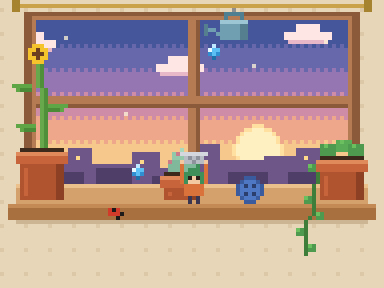
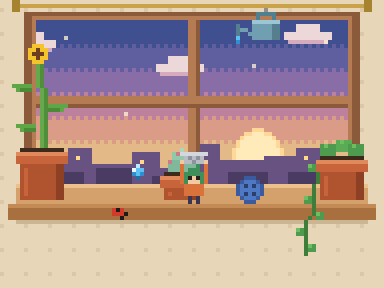
Thimbleful: golden drops, earn-back, streak meter, bigger sunflower, dusk sky
Board 2 (not yet live) gets the scoring changes along with the wider catch:
- Golden drops: after 8 catches about 1 in 9 drops is gold, falls faster and is
  worth 3; the spout glints gold first; missing one costs nothing
- Earn-back: 15 catches in a row wins back a lost spill, at most once a minute;
  a blue spill resets the streak, a missed gold drop does not

No scoring change:
- Streak count on the wall under her from 5 in a row, with a bar filling toward
  the next chance back while there is one to win
- Sunflower keeps growing past 26: side blooms at 35 and 65, the butterfly
  lands on it at 45, bees at 90
- The sky slowly turns from sunset to night over a run: the sun sinks, windows
  light up, stars and the moon come out
- Start card mentions gold drops and earn-back; regained chance pip bounces

Claude-Session: https://claude.ai/code/session_01LYFj8Wnu6iP9TftHkn7E9a

Changed region(s): [[0.5312, 0.0312, 0.75, 0.2188], [0.5938, 0.4062, 0.75, 0.5625], [0.2812, 0.7188, 0.3438, 0.7812]]

diff --git a/site/thimbleful/game.js b/site/thimbleful/game.js
@@ -25,6 +25,15 @@ const plant = { planted: false, size: 0 }; // the sunflower grown in the big pot
 let facing = 1, hop = 0, wander = { next: 3, to: null };
 const keys = { l: false, r: false }, can = { x: CAN_AWAY, tx: 60, want: CAN_AWAY };
 let drops = [], parts = [], wet = [], intro = null, seedFall = null;
+// golden drops: worth GOLD_POINTS, fall faster, and missing one costs nothing (it just sparkles away)
+const GOLD_POINTS = 3, GOLD_AFTER = 8, GOLD_CHANCE = 0.11;
+let nextGold = false, popups = [];
+// earn-back: EARN_STREAK catches in a row without a spill wins a lost chance back, at most once per EARN_COOLDOWN seconds
+const EARN_STREAK = 15, EARN_COOLDOWN = 60;
+let streak = 0, lastEarn = -999, regained = -1;
+// dusk: the sky slowly turns to night over a run (0 = sunset, 1 = night)
+const DUSK_SECONDS = 150;
+let dusk = 0, duskTarget = 0;
 
 const sky = [[5, '#46569a'], [12, '#6767ab'], [18, '#9676b2'], [24, '#cf8ca6'], [30, '#eea78b'], [36, '#f7c88c']];
 const far = [[9, 8, 6], [17, 6, 9], [23, 10, 5], [33, 7, 8], [40, 9, 4], [49, 6, 10], [55, 11, 6], [66, 8, 7], [74, 6, 9], [80, 7, 5]];
@@ -139,7 +148,8 @@ function drawLeaderboard(scores, highlight = null, all = false) {
 // ---------- UI ----------
 function hud() {
   scoreEl.textContent = score; bestEl.textContent = best; pips.innerHTML = '';
-  for (let i = 0; i < MAXSPILL; i++) { const p = document.createElement('i'); if (i < spills) p.className = 'gone'; pips.appendChild(p); }
+  for (let i = 0; i < MAXSPILL; i++) { const p = document.createElement('i'); if (i < spills) p.className = 'gone'; else if (i === regained) p.className = 'back'; pips.appendChild(p); }
+  regained = -1;
 }
 function showCard(title, text, goLabel) {
   ovTitle.textContent = title; ovText.textContent = text; go.textContent = goLabel; syncIntroBtn();
@@ -150,7 +160,8 @@ function start(withIntro) {
   resetLeaderboard();
   if (withIntro === true) introSeen = false;
   ThimbleSound.start();
-  score = 0; spills = 0; el = 0; target = null; drops = []; parts = []; wet = []; flash = 0; hud();
+  score = 0; spills = 0; el = 0; target = null; drops = []; parts = []; wet = []; flash = 0; nextGold = false;
+  streak = 0; lastEarn = -999; duskTarget = 0; hud();
   overlay.hidden = true; main.classList.remove('watching');
   if (!introSeen) {
     // first play: walk to the pot, plant the seed, the can slides in, thimble goes up
@@ -193,8 +204,8 @@ function leaveWatch() {
   hint.textContent = 'Drag anywhere on the scene to move. On a keyboard, use the arrow keys, M to mute and F for full screen.';
   state = 'title';
   showCard('Catch the drips', plant.planted
-    ? 'Plant a new seed and catch the drips to grow it. Five spills ends the game.'
-    : 'Plant the seed, then catch the drips in your thimble to make it grow. Five spills ends the game.', 'Start');
+    ? 'Plant a new seed and catch the drips to grow it. Gold drops are worth 3, and 15 in a row wins back a spill. Five spills ends the game.'
+    : 'Plant the seed, then catch the drips in your thimble to make it grow. Gold drops are worth 3, and 15 in a row wins back a spill. Five spills ends the game.', 'Start');
   if (location.hash === '#watch') history.replaceState(null, '', location.pathname);
 }
 
@@ -302,6 +313,7 @@ function idle(dt) {
 
 let shownState = '';
 function update(dt) {
+  dusk += (duskTarget - dusk) * Math.min(1, dt * (duskTarget < dusk ? 1.2 : 0.6));
   if (shownState !== state) { shownState = state; gameEl.classList.toggle('playing', state === 'play'); }
   time += dt; flash = Math.max(0, flash - dt); moved = false;
   for (const p of parts) { p.vy += 140 * dt; p.x += p.vx * dt; p.y += p.vy * dt; p.life -= dt; }
@@ -311,7 +323,7 @@ function update(dt) {
   hop = Math.max(0, hop - dt);
   if (state === 'intro') { moveCan(dt, 0); updateIntro(dt); return; }
   if (state !== 'play') { moveCan(dt, 14); if (state === 'title' || state === 'watch') idle(dt); return; }
-  el += dt; ThimbleSound.intensity(el);
+  el += dt; ThimbleSound.intensity(el); duskTarget = Math.min(1, el / DUSK_SECONDS);
   const interval = Math.max(0.48, 1.45 - el * 0.018), fall = Math.min(56, 20 + el * 0.55);
   moveCan(dt, 16 + el * 0.45);
   const before = ex, sp = 72;
@@ -321,40 +333,81 @@ function update(dt) {
   ex = Math.max(7, Math.min(89, ex));
   moved = Math.abs(ex - before) > 0.05; if (moved) { walk += dt; facing = ex > before ? 1 : -1; }
   dropT -= dt;
-  if (dropT <= 0 && can.x > 6) { drops.push({ x: Math.round(can.x) - 4, y: 9, vy: fall }); dropT = interval * (0.75 + Math.random() * 0.5); }
+  if (dropT <= 0 && can.x > 6) {
+    drops.push({ x: Math.round(can.x) - 4, y: 9, vy: nextGold ? fall * 1.25 : fall, gold: nextGold });
+    dropT = interval * (0.75 + Math.random() * 0.5);
+    // decide the next drop now, so the spout can glint gold before it falls
+    nextGold = score >= GOLD_AFTER && !drops.some(d => d.gold) && Math.random() < GOLD_CHANCE;
+  }
   const mid = Math.round(ex);
   for (const d of drops) {
     const py = d.y; d.y += d.vy * dt;
     if (py < 38 && d.y >= 38 && Math.abs(d.x - mid) <= CATCH) {
-      d.done = true; score++; plant.size = score; flash = 0.3; hop = 0.12; burst(d.x, 37, 4, 30, 20); hud();
-      ThimbleSound.catch();
-      if (score === 14 || score === 20 || score === 26) { const f = flowerPos(); burst(f.x, f.y, 10, 40, 22, '#ffd84a'); ThimbleSound.milestone(); }
-      else if (score % 10 === 0) ThimbleSound.milestone();
+      const before = score;
+      d.done = true; score += d.gold ? GOLD_POINTS : 1; plant.size = score; flash = 0.3; hop = d.gold ? 0.2 : 0.12; hud();
+      if (d.gold) { burst(d.x, 37, 12, 50, 28, '#ffd84a'); burst(d.x, 37, 4, 30, 20, '#ffffff'); popups.push({ x: d.x, y: 33, t: 0.9 }); ThimbleSound.gold(); }
+      else { burst(d.x, 37, 4, 30, 20); ThimbleSound.catch(); }
+      streak++;
+      if (streak % EARN_STREAK === 0 && spills > 0 && el - lastEarn >= EARN_COOLDOWN) {
+        spills--; lastEarn = el; regained = spills; hud();
+        burst(Math.round(ex), 40, 16, 60, 30, '#7fd0ff'); burst(Math.round(ex), 40, 6, 40, 24, '#ffffff');
+        popups.push({ x: Math.round(ex), y: 30, t: 1.1, kind: 'heart' });
+        ThimbleSound.earn();
+      }
+      const crossed = n => before < n && score >= n;
+      if (crossed(14) || crossed(20) || crossed(26)) { const f = flowerPos(); burst(f.x, f.y, 10, 40, 22, '#ffd84a'); ThimbleSound.milestone(); }
+      else if (Math.floor(score / 10) > Math.floor(before / 10)) ThimbleSound.milestone();
+    } else if (d.gold && d.y >= 48) {
+      d.done = true; burst(d.x, 47, 6, 30, 10, '#ffd84a');
     } else if (d.y >= 48) {
-      d.done = true; spills++; wet.push({ x: d.x, t: 3 }); burst(d.x, 47, 5, 36, 14); hud();
+      d.done = true; spills++; streak = 0; wet.push({ x: d.x, t: 3 }); burst(d.x, 47, 5, 36, 14); hud();
       if (spills >= MAXSPILL) { end(); break; }
       ThimbleSound.spill();
     }
   }
   drops = drops.filter(d => !d.done);
+  for (const p of popups) { p.t -= dt; p.y -= 9 * dt; }
+  popups = popups.filter(p => p.t > 0);
 }
 
 // ---------- drawing ----------
 function pot(x, y, w, h) { R(x - 1, y + 1, w + 2, 3, '#c8643c'); R(x - 1, y + 1, w + 2, 1, '#e08a5c'); R(x, y, w, 1, '#3d2a1c'); R(x, y + 4, w, h - 4, '#b0532f'); R(x + w - 2, y + 4, 2, h - 4, '#8e4024'); R(x + 1, y + 5, 1, h - 6, '#c8643c'); }
 function leaf(x, y, dir) { R(dir > 0 ? x : x - 4, y, 4, 2, '#5fa646'); P(dir > 0 ? x + 4 : x - 5, y, '#5fa646'); R(dir > 0 ? x : x - 3, y + 1, 3, 1, '#4b8a37'); }
 
+const NIGHT = ['#151a3c', '#1d2048', '#272654', '#33305e', '#423a68', '#54456c'];
+const STARS = [[14, 7], [22, 12], [31, 6], [40, 10], [55, 8], [62, 14], [70, 6], [78, 11], [84, 7], [18, 18], [52, 17], [74, 19], [36, 15]];
+const MORE_LIT = [[12, 41], [27, 43], [43, 42], [58, 37], [61, 42], [72, 42], [83, 41], [37, 44]];
+function mix(a, b, t) {
+  const p = h => [1, 3, 5].map(i => parseInt(h.slice(i, i + 2), 16)), A = p(a), B = p(b);
+  return '#' + A.map((v, i) => Math.round(v + (B[i] - v) * t).toString(16).padStart(2, '0')).join('');
+}
 function scene() {
+  const n = dusk;
   R(0, 0, W, H, '#e7d6b8');
   for (let j = 2; j < H; j += 6) for (let i = (j % 12 ? 0 : 3); i < W; i += 6) P(i, j, '#dcc8a6');
   R(6, 3, 84, 45, '#8a5a3b'); R(8, 4, 80, 43, '#b57b52');
   g.save(); g.beginPath(); g.rect(9, 5, 78, 41); g.clip();
-  for (let s = 0; s < sky.length; s++) { const y0 = sky[s][0], y1 = s < sky.length - 1 ? sky[s + 1][0] : 46; R(9, y0, 78, y1 - y0, sky[s][1]); if (s > 0) for (let i = 9; i < 87; i += 2) P(i, y0 - 1, sky[s][1]); }
-  disc(64, 37, 6, '#ffe0a0'); disc(64, 37, 5, '#fff0c2');
-  for (const [x0, y, sp] of clouds) { const a = 9 + ((x0 + (calm ? 0 : time * sp)) % 100) - 14; R(a, y, 12, 2, '#fde6e3'); R(a + 3, y - 2, 6, 2, '#fde6e3'); R(a + 1, y + 2, 10, 1, '#e8b8c8'); }
-  for (const [bx, bw, bh] of far) R(bx, 46 - bh, bw, bh, '#6e5788');
-  for (const [lx, ly] of lit) P(lx, ly, (Math.floor(time * 0.7 + lx) % 5) ? '#ffd98a' : '#6e5788');
-  for (const [bx, bw, bh] of near) R(bx, 46 - bh, bw, bh, '#4f3f68');
-  for (let i = 0; i < (state === 'play' ? 5 : 10); i++) { const mx = 12 + ((i * 29 + time * 1.2 * (1 + i % 3)) % 72), my = 8 + ((i * 17) % 30) + Math.sin(time * 0.8 + i) * 2; P(mx, my, 'rgba(255,246,216,0.75)'); }
+  for (let s = 0; s < sky.length; s++) { const c = mix(sky[s][1], NIGHT[s], n), y0 = sky[s][0], y1 = s < sky.length - 1 ? sky[s + 1][0] : 46; R(9, y0, 78, y1 - y0, c); if (s > 0) for (let i = 9; i < 87; i += 2) P(i, y0 - 1, c); }
+  // stars come out, then the moon
+  if (n > 0.3) {
+    const a = Math.min(1, (n - 0.3) / 0.4);
+    for (const [sx, sy] of STARS) { g.globalAlpha = a * ((Math.floor(time * 1.3 + sx) % 7) ? 0.9 : 0.35); P(sx, sy, '#fff6d8'); }
+    g.globalAlpha = 1;
+  }
+  // the sun sinks behind the buildings and warms up as it goes
+  const sunY = 37 + Math.round(n * 12);
+  disc(64, sunY, 6, mix('#ffe0a0', '#ff9a5a', n)); disc(64, sunY, 5, mix('#fff0c2', '#ffc07a', n));
+  const cloudA = mix('#fde6e3', '#6a6290', n), cloudB = mix('#e8b8c8', '#4a4572', n);
+  for (const [x0, y, sp] of clouds) { const a = 9 + ((x0 + (calm ? 0 : time * sp)) % 100) - 14; R(a, y, 12, 2, cloudA); R(a + 3, y - 2, 6, 2, cloudA); R(a + 1, y + 2, 10, 1, cloudB); }
+  // the moon sits in front of the drifting clouds
+  if (n > 0.65) { g.globalAlpha = Math.min(1, (n - 0.65) / 0.25); disc(80, 11, 3, '#f4f0dc'); P(79, 10, '#ffffff'); P(81, 12, '#d8d2b8'); g.globalAlpha = 1; }
+  const farC = mix('#6e5788', '#2e2850', n), nearC = mix('#4f3f68', '#1f1a38', n);
+  for (const [bx, bw, bh] of far) R(bx, 46 - bh, bw, bh, farC);
+  for (const [lx, ly] of lit) P(lx, ly, (Math.floor(time * 0.7 + lx) % 5) ? '#ffd98a' : farC);
+  // more windows light up as it gets dark
+  MORE_LIT.forEach(([lx, ly], i) => { if (n > 0.25 + i * 0.08) P(lx, ly, (Math.floor(time * 0.5 + lx * 3) % 9) ? '#ffd98a' : farC); });
+  for (const [bx, bw, bh] of near) R(bx, 46 - bh, bw, bh, nearC);
+  for (let i = 0; i < (state === 'play' ? 5 : 10) * (1 - n * 0.7); i++) { const mx = 12 + ((i * 29 + time * 1.2 * (1 + i % 3)) % 72), my = 8 + ((i * 17) % 30) + Math.sin(time * 0.8 + i) * 2; P(mx, my, 'rgba(255,246,216,0.75)'); }
   g.restore();
   R(47, 5, 2, 41, '#b57b52'); R(49, 5, 1, 41, '#8a5a3b'); R(9, 24, 78, 2, '#b57b52'); R(9, 26, 78, 1, '#8a5a3b');
   R(4, 1, 88, 1, '#c9a24a'); R(3, 0, 2, 3, '#a5832f'); R(91, 0, 2, 3, '#a5832f');
@@ -386,9 +439,18 @@ function plants() {
       if (s < 4) { P(SUN_X - 1 + off(top), top, '#6cbf5f'); P(SUN_X + 2 + off(top), top, '#6cbf5f'); }
       for (let k = 5, side = -1; SUN_BASE - k > top + 3; k += 5, side = -side) leaf(side < 0 ? SUN_X - 1 + off(SUN_BASE - k) : SUN_X + 2 + off(SUN_BASE - k), SUN_BASE - k, side);
       const fx = SUN_X + off(top);
+      // past 26 it keeps going: side blooms on branches, then visitors
+      const branch = (y, len, r) => {
+        const bx = SUN_X + 2 + off(y);
+        for (let k = 0; k < len; k++) P(bx + k, y - Math.floor(k / 2), '#4f8f3a');
+        flower(bx + len + r - 1, y - Math.floor(len / 2) - r, r);
+      };
+      if (s >= 35) branch(SUN_BASE - 7, 4, s >= 50 ? 3 : 2);
+      if (s >= 65) branch(SUN_BASE - 17, 3, s >= 80 ? 3 : 2);
       if (s >= 14) {
         const r = Math.min(4, 2 + Math.floor((s - 14) / 6));
         flower(fx, top - r, r);
+        if (s >= 45) visitors(fx, top - r, r, s);
         // the head nods now and then
         if (!calm && (time % 7) < 0.4) P(fx, top - r * 2 - 1, '#f5c32c');
       } else if (s >= 8) { disc(fx, top - 1, 1, '#5fa646'); if (s >= 11) P(fx, top - 2, '#f5c32c'); }
@@ -410,6 +472,20 @@ function plants() {
 }
 
 // a butterfly drifts around the window when nobody is playing
+// the butterfly comes to rest on a big enough sunflower, and bees turn up later
+function visitors(fx, fy, r, s) {
+  if (state === 'title' || state === 'intro') return;
+  if (state === 'play') {   // outside play the butterfly is already flying around the window
+    const up = !calm && Math.floor(time * 3) % 2 === 0, bx = fx + 1, by = fy - r - 1;
+    P(bx, by, '#3a3550');
+    if (up) { P(bx - 1, by - 1, '#f6a6c8'); P(bx + 1, by - 1, '#f6a6c8'); }
+    else { P(bx - 1, by, '#f6a6c8'); P(bx + 1, by, '#f6a6c8'); P(bx - 1, by + 1, '#ffd2e4'); P(bx + 1, by + 1, '#ffd2e4'); }
+  }
+  if (s >= 90) for (let k = 0; k < 2; k++) {
+    const a = time * (2.4 + k) + k * 3, x = Math.round(fx + Math.cos(a) * (r + 4)), y = Math.round(fy + Math.sin(a * 1.3) * (r + 2));
+    P(x, y, '#ffcc00'); P(x + 1, y, '#3a3550'); if (Math.floor(time * 12 + k) % 2) P(x, y - 1, '#ffffff');
+  }
+}
 function butterfly() {
   if (state === 'play' || state === 'intro') return;
   const t = time, x = Math.round(36 + 24 * Math.sin(t * 0.45) + 5 * Math.sin(t * 1.9)), y = Math.round(20 + 7 * Math.sin(t * 0.7) + 2 * Math.sin(t * 2.3));
@@ -429,7 +505,7 @@ function wateringCan() {
   R(cx + 1, 2, 5, 1, '#4f7f90'); P(cx + 1, 3, '#4f7f90'); P(cx + 5, 3, '#4f7f90');
   R(cx, 4, 7, 5, '#6f9fb0'); R(cx, 4, 7, 1, '#9cc6d4'); R(cx + 5, 5, 2, 4, '#557f8f');
   P(cx - 1, 7, '#6f9fb0'); P(cx - 2, 6, '#6f9fb0'); P(cx - 3, 6, '#6f9fb0'); R(cx - 4, 5, 1, 3, '#557f8f');
-  if (state === 'play' && dropT < 0.3) { P(cx - 4, 8, '#5cc0f5'); P(cx - 4, 9, '#2f8fd0'); }
+  if (state === 'play' && dropT < 0.3) { P(cx - 4, 8, nextGold ? '#ffe680' : '#5cc0f5'); P(cx - 4, 9, nextGold ? '#d99a12' : '#2f8fd0'); }
   g.restore();
 }
 
@@ -474,6 +550,32 @@ function ladybug() {
 // a 3x4 teardrop with a dark rim so it reads against the pale sky and the wall
 // a drop counts when any part of it touches the thimble rim (rim is 7 wide, drop is 3)
 const CATCH = 4.5;
+function goldDrop(x, y) {
+  P(x, y - 1, '#fff2b0');
+  R(x - 1, y, 3, 2, '#ffd23a'); P(x - 1, y, '#ffffff');
+  P(x - 1, y + 1, '#d99a12'); P(x + 1, y + 1, '#d99a12');
+  P(x, y + 2, '#a8700a');
+  // a twinkle that flickers around it
+  if (Math.floor(time * 10) % 3 === 0) { P(x - 2, y - 1, '#fff6c8'); P(x + 2, y + 2, '#fff6c8'); }
+  else if (Math.floor(time * 10) % 3 === 1) { P(x + 2, y - 1, '#fff6c8'); }
+}
+// "+3" in tiny pixel digits that floats up from the thimble
+function plusThree(x, y, a) {
+  g.globalAlpha = Math.min(1, a * 2);
+  const c = '#ffd23a', k = '#7a4f00', X = Math.round(x) - 3, Y = Math.round(y);
+  for (const [dx, dy] of [[1, 0], [0, 1], [1, 1], [2, 1], [1, 2], [4, 0], [5, 0], [6, 0], [6, 1], [5, 2], [6, 2], [6, 3], [4, 4], [5, 4], [6, 4]]) { P(X + dx + 1, Y + dy + 1, k); }
+  for (const [dx, dy] of [[1, 0], [0, 1], [1, 1], [2, 1], [1, 2], [4, 0], [5, 0], [6, 0], [6, 1], [5, 2], [6, 2], [6, 3], [4, 4], [5, 4], [6, 4]]) { P(X + dx, Y + dy, c); }
+  g.globalAlpha = 1;
+}
+// a little blue drop-heart that floats up when a chance comes back
+function heartPop(x, y, a) {
+  g.globalAlpha = Math.min(1, a * 2);
+  const X = Math.round(x) - 3, Y = Math.round(y), c = '#5cc0f5', k = '#1f6fa8';
+  for (const [dx, dy] of [[1, 0], [2, 0], [4, 0], [5, 0], [0, 1], [1, 1], [2, 1], [3, 1], [4, 1], [5, 1], [6, 1], [1, 2], [2, 2], [3, 2], [4, 2], [5, 2], [2, 3], [3, 3], [4, 3], [3, 4]]) { P(X + dx + 1, Y + dy + 1, k); }
+  for (const [dx, dy] of [[1, 0], [2, 0], [4, 0], [5, 0], [0, 1], [1, 1], [2, 1], [3, 1], [4, 1], [5, 1], [6, 1], [1, 2], [2, 2], [3, 2], [4, 2], [5, 2], [2, 3], [3, 3], [4, 3], [3, 4]]) { P(X + dx, Y + dy, c); }
+  P(X + 1, Y + 1, '#e8f8ff');
+  g.globalAlpha = 1;
+}
 function drop(x, y) {
   P(x, y - 1, '#bfe8ff');
   R(x - 1, y, 3, 2, '#5cc0f5'); P(x - 1, y, '#e8f8ff');
@@ -481,12 +583,32 @@ function drop(x, y) {
   P(x, y + 2, '#1f6fa8');
 }
 
+const DIGITS = {'0':['111','101','101','101','111'],'1':['010','110','010','010','111'],'2':['111','001','111','100','111'],'3':['111','001','111','001','111'],'4':['101','101','111','001','001'],'5':['111','100','111','001','111'],'6':['111','100','111','101','111'],'7':['111','001','010','010','010'],'8':['111','101','111','101','111'],'9':['111','101','111','001','111']};
+function digits(str, x, y, c, shadow) {
+  let cx = x;
+  for (const ch of str) { const rows = DIGITS[ch]; for (let j = 0; j < 5; j++) for (let i = 0; i < 3; i++) if (rows[j][i] === '1') { if (shadow) P(cx + i + 1, y + j + 1, shadow); P(cx + i, y + j, c); } cx += 4; }
+}
+// a streak count on the wall under her, and a bar that fills toward the next chance back
+function streakMeter() {
+  if (state !== 'play' || streak < 5 && spills === 0) return;
+  const cx = Math.max(10, Math.min(86, Math.round(ex)));
+  if (streak >= 5) {
+    const str = String(streak), w = str.length * 4 - 1;
+    digits(str, cx - Math.floor(w / 2), 58, streak >= EARN_STREAK ? '#2f8fd0' : '#8a6a48', '#f5ead4');
+  }
+  if (spills > 0) {
+    const cooling = el - lastEarn < EARN_COOLDOWN, fill = streak % EARN_STREAK;
+    R(cx - 8, 65, 17, 3, '#cbb593'); R(cx - 7, 66, 15, 1, '#e9dcc2');
+    R(cx - 7, 66, fill, 1, cooling ? '#a99fb8' : '#5cc0f5');
+  }
+}
 function draw() {
   scene(); plants(); butterfly(); ladybug(); wateringCan();
-  for (const d of drops) drop(d.x, Math.round(d.y));
-  explorer();
+  for (const d of drops) (d.gold ? goldDrop : drop)(d.x, Math.round(d.y));
+  explorer(); streakMeter();
   if (seedFall) { R(seedFall.x, seedFall.y, 2, 2, '#3b2c22'); }
   for (const p of parts) P(p.x, p.y, p.c);
+  for (const p of popups) (p.kind === 'heart' ? heartPop : plusThree)(p.x, p.y, p.t);
 }
 
 let lastT = 0;

diff --git a/site/thimbleful/index.html b/site/thimbleful/index.html
@@ -11,14 +11,14 @@
 <meta property="og:title" content="Thimbleful · JonniePeed Games">
 <meta property="og:description" content="Plant a seed on a sunset windowsill and catch the drips from a leaking watering can to grow it. A tiny pixel game for phone or desktop.">
 <meta property="og:url" content="https://jonniesparkles.github.io/jonniepeed-games/thimbleful/index.html">
-<meta property="og:image" content="https://jonniesparkles.github.io/jonniepeed-games/assets/og/thimbleful.png?v=7d2f8ef8e2">
+<meta property="og:image" content="https://jonniesparkles.github.io/jonniepeed-games/assets/og/thimbleful.png?v=9ce3ca19b0">
 <meta property="og:image:width" content="1200">
 <meta property="og:image:height" content="630">
 <meta property="og:image:alt" content="Pixel art of a tiny explorer on a windowsill holding up a thimble to catch drips from a watering can">
 <meta name="twitter:card" content="summary_large_image">
 <meta name="twitter:title" content="Thimbleful · JonniePeed Games">
 <meta name="twitter:description" content="Plant a seed on a sunset windowsill and catch the drips from a leaking watering can to grow it. A tiny pixel game for phone or desktop.">
-<meta name="twitter:image" content="https://jonniesparkles.github.io/jonniepeed-games/assets/og/thimbleful.png?v=7d2f8ef8e2">
+<meta name="twitter:image" content="https://jonniesparkles.github.io/jonniepeed-games/assets/og/thimbleful.png?v=9ce3ca19b0">
 <meta name="twitter:image:alt" content="Pixel art of a tiny explorer on a windowsill holding up a thimble to catch drips from a watering can">
 <link rel="icon" href="../favicon.ico?v=443c0101ac" sizes="any">
 <link rel="icon" type="image/png" href="../assets/favicon-32.png?v=569f3f592d">
@@ -47,6 +47,9 @@ h1{font-family:var(--display);font-weight:400;font-size:24px;margin:0;color:var(
 .pips{display:flex;gap:4px;height:24px;align-items:center}
 .pips i{width:8px;height:10px;background:var(--drop);display:block}
 .pips i.gone{background:var(--dusk-2)}
+.pips i.back{animation:pip-back .7s steps(4) 2}
+@keyframes pip-back{0%,100%{transform:none;background:var(--drop)}50%{transform:translateY(-4px);background:#ffffff}}
+@media (prefers-reduced-motion:reduce){.pips i.back{animation:none}}
 .game{display:grid;gap:14px}
 .stage{position:relative;border-radius:10px;overflow:hidden;box-shadow:0 0 0 2px var(--dusk-2);width:min(100%,max(300px,calc((100svh - 150px) * 4 / 3)));margin-inline:auto;aspect-ratio:4/3}
 .tool{display:inline-flex;align-items:center;gap:8px;background:transparent;color:var(--cream);box-shadow:none;border:2px solid var(--dusk-2);padding:8px 12px;font-size:11px;letter-spacing:.08em;text-transform:uppercase}
@@ -157,7 +160,7 @@ button:focus-visible{outline:2px solid var(--cream);outline-offset:3px}
   <div class="overlay" id="overlay">
     <div class="card">
       <h2 id="ovTitle">Catch the drips</h2>
-      <p id="ovText">Plant the seed, then catch the drips in your thimble to make it grow. Five spills ends the game.</p>
+      <p id="ovText">Plant the seed, then catch the drips in your thimble to make it grow. Gold drops are worth 3, and 15 in a row wins back a spill. Five spills ends the game.</p>
       <section id="board" aria-label="Online high scores" hidden></section>
       <div class="btns"><button id="go" type="button">Start</button><button id="watchBtn" class="ghost" type="button">Just watch</button></div>
       <button id="introBtn" class="link" type="button" hidden>Play with the intro</button>
@@ -166,8 +169,8 @@ button:focus-visible{outline:2px solid var(--cream);outline-offset:3px}
   </section>
   <p class="hint" id="hint">Drag anywhere on the scene to move. On a keyboard, use the arrow keys, M to mute and F for full screen.</p>
 </main>
-<script src="audio.js?v=cd567a2e80"></script>
+<script src="audio.js?v=f8449e8012"></script>
 <script src="../assets/leaderboard.js?v=8745bbbf93"></script>
-<script src="game.js?v=b423e97943"></script>
+<script src="game.js?v=3c970b1d54"></script>
 </body>
 </html>

diff --git a/site/thimbleful/audio.js b/site/thimbleful/audio.js
@@ -94,6 +94,19 @@ window.ThimbleSound = (function () {
       noise(t, 0.08, 0.4, 900, 300, 'lowpass', sfxBus);
       tone(hz(67), t + 0.05, 0.12, 'sine', 0.5, sfxBus, hz(74));
     },
+    earn() {
+      if (!ctx) return;
+      const t = ctx.currentTime + 0.05;
+      [72, 79, 84, 88, 91].forEach((m, i) => tone(hz(m), t + i * 0.07, 0.22, 'triangle', 0.4, sfxBus));
+      tone(hz(96), t + 0.36, 0.45, 'sine', 0.3, sfxBus);
+    },
+    gold() {
+      if (!ctx) return;
+      const t = ctx.currentTime;
+      combo++;
+      [84, 88, 91, 96, 100].forEach((m, i) => tone(hz(m), t + i * 0.045, 0.14, 'square', 0.32, sfxBus));
+      tone(hz(108), t + 0.24, 0.3, 'sine', 0.35, sfxBus);
+    },
     milestone() {
       if (!ctx) return;
       const t = ctx.currentTime + 0.12;

diff --git a/site/index.html b/site/index.html
@@ -92,7 +92,7 @@ footer img{width:20px;height:22px;image-rendering:pixelated}
       </div>
     </a>
     <a class="card" href="thimbleful/index.html">
-      <div class="thumb"><img class="px" src="assets/thumb-thimbleful.png?v=13725bdd6b" width="384" height="288" alt="Pixel windowsill with a tiny explorer holding a thimble under a leaking watering can"></div>
+      <div class="thumb"><img class="px" src="assets/thumb-thimbleful.png?v=eeeaeebbff" width="384" height="288" alt="Pixel windowsill with a tiny explorer holding a thimble under a leaking watering can"></div>
       <div class="info">
         <span class="tag">Game · phone or desktop</span>
         <h3>Thimbleful</h3>
